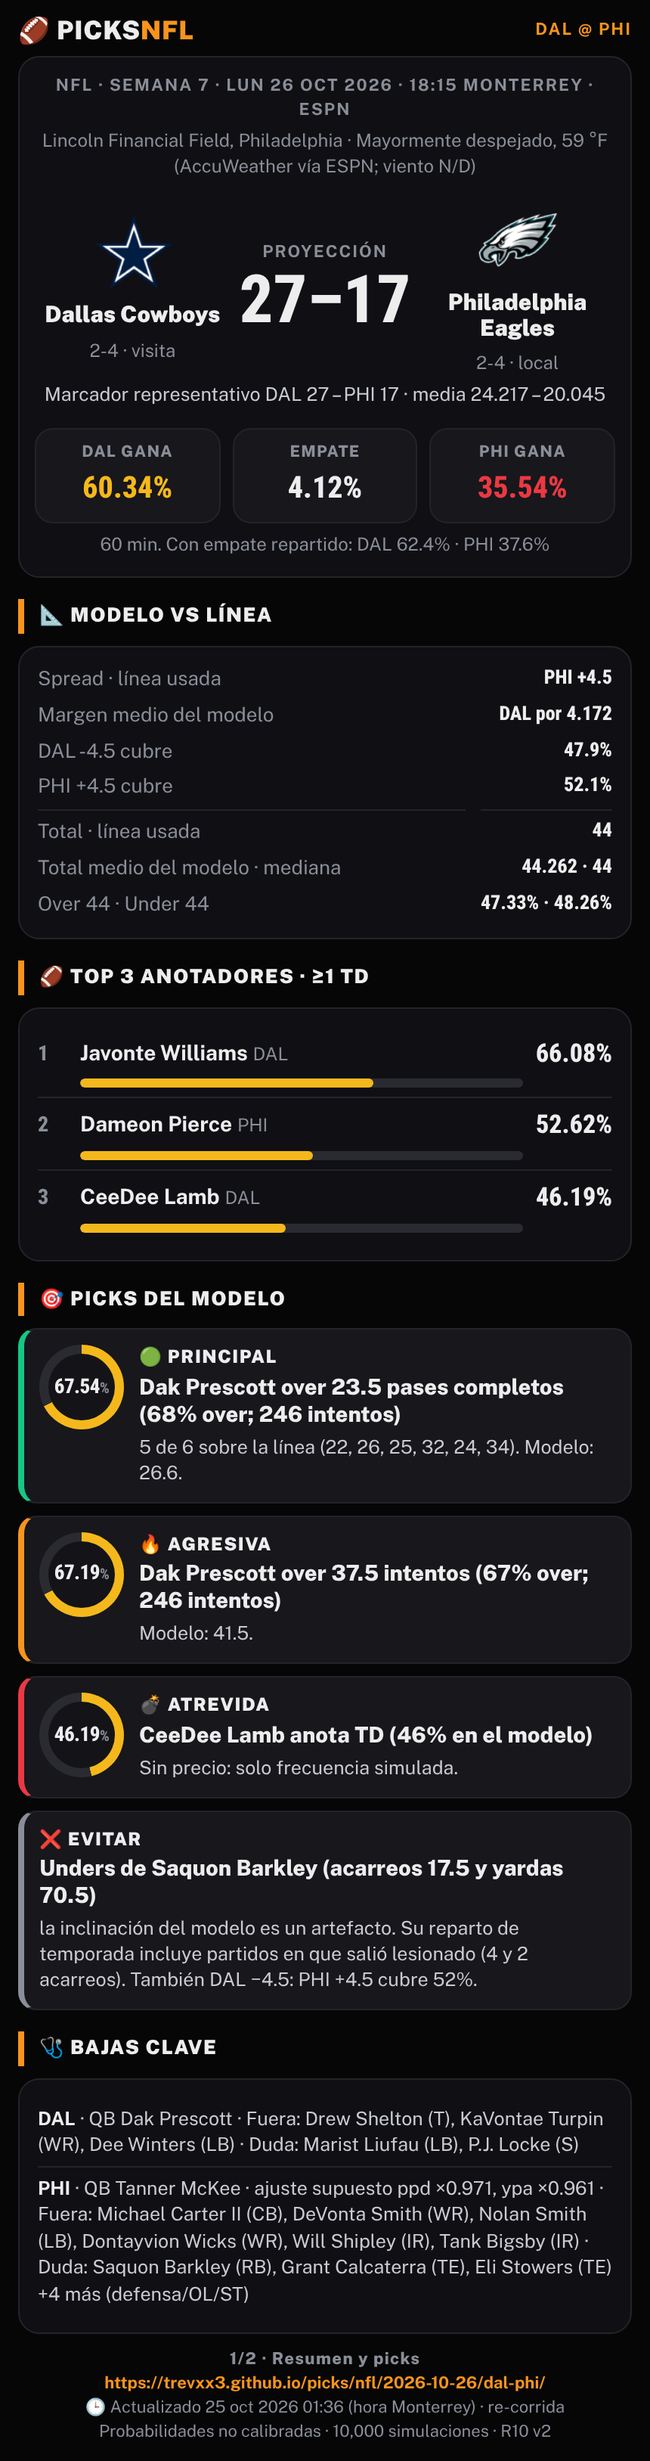
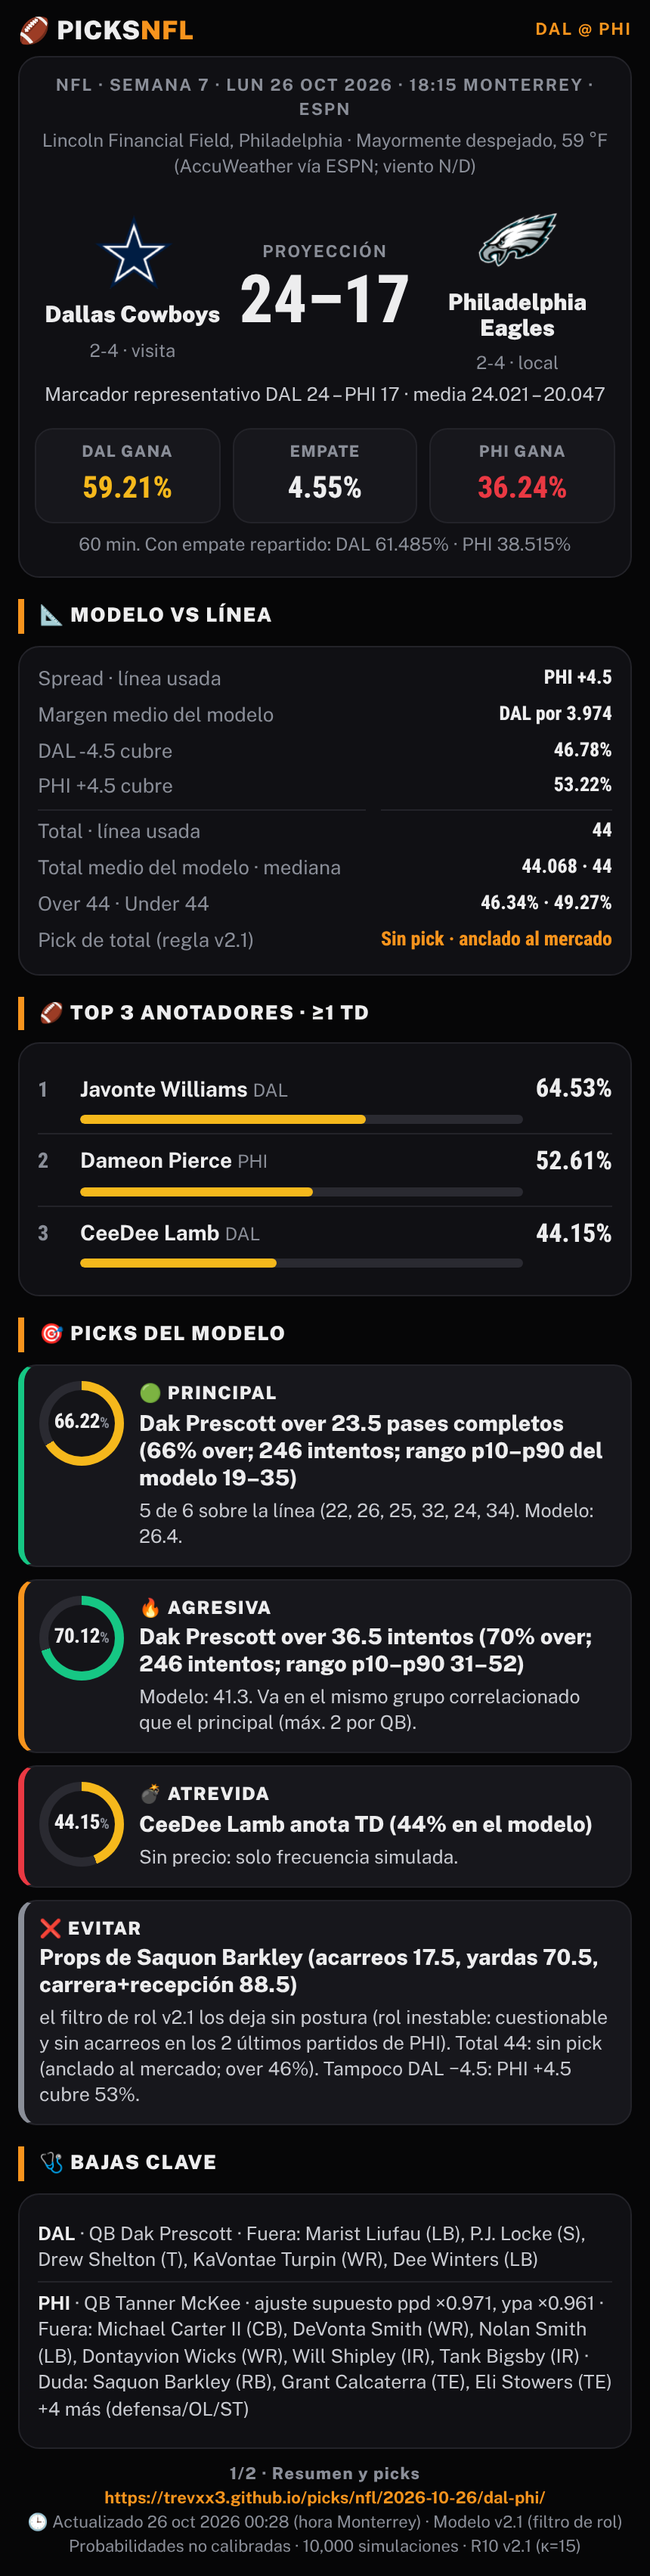
NFL Semana 7: imágenes DAL @ PHI · re-corrida lun 26-oct (R10 v2.1)

diff --git a/nfl/2026-10-25/semana7-imagenes/index.html b/nfl/2026-10-25/semana7-imagenes/index.html
@@ -1,6 +1,6 @@
 <!doctype html><html lang="es"><head><meta charset="utf-8"><meta name="viewport" content="width=device-width,initial-scale=1"><meta name="robots" content="noindex"><title>Semana 7 · Imágenes para compartir</title>
 <style>body{margin:0;background:#0b0f14;color:#e8eef5;font-family:-apple-system,system-ui,sans-serif}h1{font-size:18px;padding:16px 16px 4px;margin:0}p{padding:0 16px;color:#9fb0c2;font-size:13px}a{display:block}img{display:block;width:100%;max-width:430px;margin:12px auto;border-radius:12px}</style></head>
-<body><h1>NFL · Semana 7 · Imágenes</h1><p style="color:#ffb547;font-weight:700">🕒 Actualizado 25 oct 2026 01:36 (hora Monterrey) · re-corrida con lesiones y líneas del sáb 24 / dom 25</p><p>Mantén presionada una imagen para guardarla o compartirla. <a style="display:inline;color:#7cc4ff" href="../semana7-ganadores/">Ver ganadores</a></p>
+<body><h1>NFL · Semana 7 · Imágenes</h1><p style="color:#ffb547;font-weight:700">🕒 Actualizado 25 oct 2026 01:36 (hora Monterrey) · re-corrida con lesiones y líneas del sáb 24 / dom 25</p><p style="color:#ffb547;font-weight:700">🕒 DAL @ PHI actualizado 26 oct 2026 00:28 (hora Monterrey) · Modelo v2.1 (filtro de rol)</p><p>Mantén presionada una imagen para guardarla o compartirla. <a style="display:inline;color:#7cc4ff" href="../semana7-ganadores/">Ver ganadores</a></p>
 <a href="00_resumen.png?v=r2"><img src="00_resumen.png?v=r2" alt="00_resumen" loading="lazy"></a>
 <a href="01_PIT-NO_1.png?v=r2"><img src="01_PIT-NO_1.png?v=r2" alt="01_PIT-NO_1" loading="lazy"></a>
 <a href="01_PIT-NO_2.png?v=r2"><img src="01_PIT-NO_2.png?v=r2" alt="01_PIT-NO_2" loading="lazy"></a>
@@ -26,5 +26,5 @@
 <a href="11_LAR-LV_2.png?v=r2"><img src="11_LAR-LV_2.png?v=r2" alt="11_LAR-LV_2" loading="lazy"></a>
 <a href="12_KC-SEA_1.png?v=r2"><img src="12_KC-SEA_1.png?v=r2" alt="12_KC-SEA_1" loading="lazy"></a>
 <a href="12_KC-SEA_2.png?v=r2"><img src="12_KC-SEA_2.png?v=r2" alt="12_KC-SEA_2" loading="lazy"></a>
-<a href="13_DAL-PHI_1.png?v=r2"><img src="13_DAL-PHI_1.png?v=r2" alt="13_DAL-PHI_1" loading="lazy"></a>
-<a href="13_DAL-PHI_2.png?v=r2"><img src="13_DAL-PHI_2.png?v=r2" alt="13_DAL-PHI_2" loading="lazy"></a></body></html>
+<a href="13_DAL-PHI_1.png?v=v21"><img src="13_DAL-PHI_1.png?v=v21" alt="13_DAL-PHI_1" loading="lazy"></a>
+<a href="13_DAL-PHI_2.png?v=v21"><img src="13_DAL-PHI_2.png?v=v21" alt="13_DAL-PHI_2" loading="lazy"></a></body></html>
